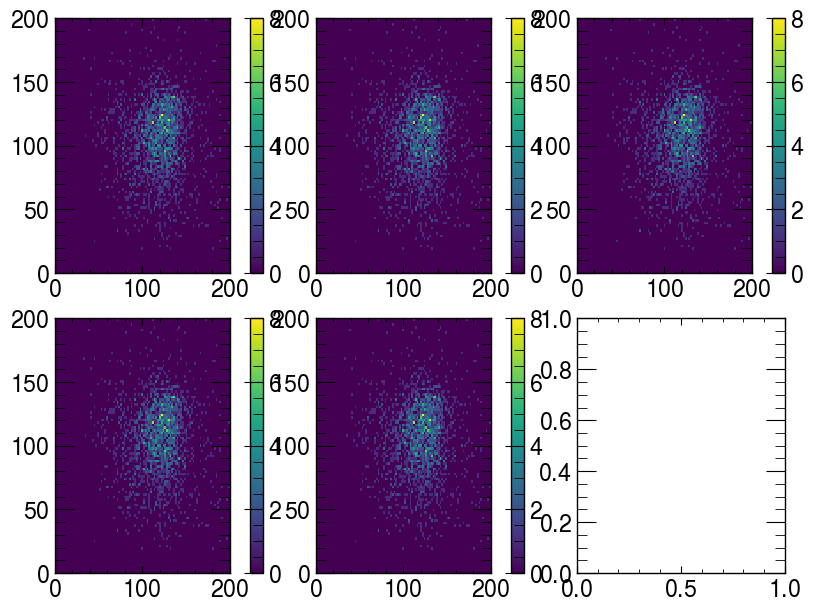
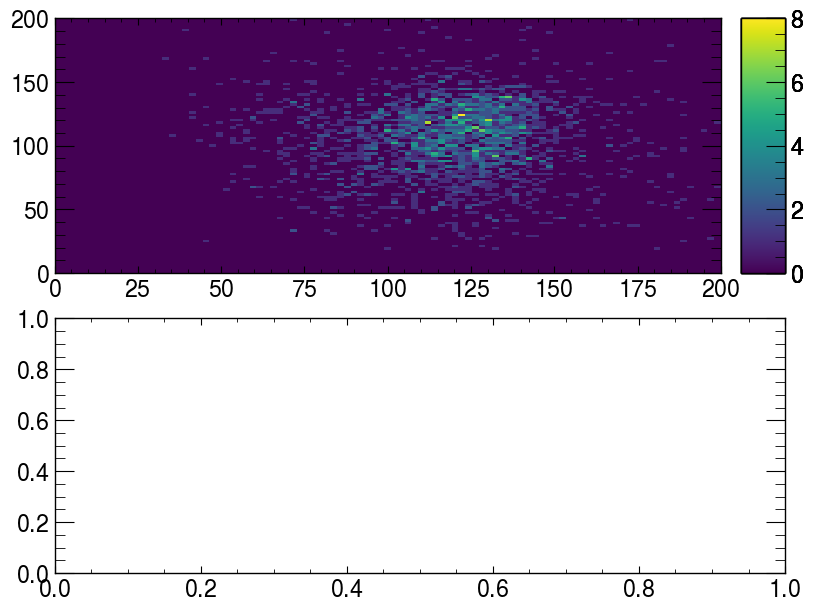
Draw vanilla mH plane

diff --git a/fill_hists.py b/fill_hists.py
@@ -1,15 +1,15 @@
 import numpy as np
 import awkward as ak
 import vector as p4
+from collections import defaultdict
 from histograms import EffHistogram, EffHistogramdd
 import triggers
 import logging
 
 
 def init_leading_jets_passed_trig_hists():
-    leading_jets_passed_trig_hists = {}
+    leading_jets_passed_trig_hists = defaultdict(lambda: defaultdict(int))
     for ith_jet in np.arange(0, 4):
-        leading_jets_passed_trig_hists[ith_jet] = {}
         # bin_range = [20_000, 1_300_000]
         bin_range = [0, 1_300_000]
         if ith_jet == 2:
@@ -38,13 +38,12 @@ def fill_leading_jet_pt_passed_trig_hists(jet_pt, trigs_decisions, output):
 
 
 def init_mH_passed_trig_hists():
-    mH_passed_trig_hists = {}
-    for ith_h in np.arange(0, 2):
-        mH_passed_trig_hists[ith_h] = {}
-        bin_range = [0, 200_000]
+    mH_passed_trig_hists = defaultdict(lambda: defaultdict(int))
+    bin_range = [0, 200_000]
+    for ith_var in np.arange(0, 2):
         for trig in triggers.run3_all:
-            mH_passed_trig_hists[ith_h][trig] = EffHistogram(
-                f"mH{ith_h}_passed_{trig}",
+            mH_passed_trig_hists[ith_var][trig] = EffHistogram(
+                f"mH{ith_var}_passed_{trig}",
                 bin_range,
                 bins=100,
             )
@@ -59,15 +58,15 @@ def fill_mH_passed_trig_hists(events, trigs_decisions, output):
         f"total number events from jets, H1 and H2 in events (all should be equal): {len(h1_m)}, {len(h2_m)}"
     )
 
-    for ith_h, passed_trig_hists in output.items():
+    for ith_var, passed_trig_hists in output.items():
         for trig, hist in passed_trig_hists.items():
             trig_decisions = trigs_decisions[f"trigPassed_{trig}"]
-            if ith_h == 0:
+            if ith_var == 0:
                 hist.fill(
                     h1_m[trig_decisions],
                     h1_m,
                 )
-            if ith_h == 1:
+            if ith_var == 1:
                 hist.fill(
                     h2_m[trig_decisions],
                     h2_m,
@@ -75,14 +74,15 @@ def fill_mH_passed_trig_hists(events, trigs_decisions, output):
 
 
 def init_mH_plane_passed_trig_hists():
-    mH_plane_passed_trig_hists = {}
+    mH_plane_passed_trig_hists = defaultdict(lambda: defaultdict(int))
     bin_range = (0, 200_000)
-    for trig in triggers.run3_all:
-        mH_plane_passed_trig_hists[trig] = EffHistogramdd(
-            f"mH_plane_passed_{trig}",
-            bin_range,
-            bins=100,
-        )
+    for ith_var in np.arange(0, 1):
+        for trig in triggers.run3_all:
+            mH_plane_passed_trig_hists[ith_var][trig] = EffHistogramdd(
+                f"mH_plane_passed_{trig}",
+                bin_range,
+                bins=100,
+            )
     return mH_plane_passed_trig_hists
 
 
@@ -91,8 +91,9 @@ def fill_mH_plane_passed_trig_hists(events, trigs_decisions, output):
     h1_m = events["resolved_DL1dv01_FixedCutBEff_70_h1_m"]
     h2_m = events["resolved_DL1dv01_FixedCutBEff_70_h2_m"]
 
-    for trig, hist in output.items():
-        trig_decisions = trigs_decisions[f"trigPassed_{trig}"]
-        passed_trig = np.column_stack((h1_m[trig_decisions], h2_m[trig_decisions]))
-        total = np.column_stack((h1_m, h2_m))
-        hist.fill(total)
+    for ith_var, passed_trig_hists in output.items():
+        for trig, hist in passed_trig_hists.items():
+            trig_decisions = trigs_decisions[f"trigPassed_{trig}"]
+            passed_trig = np.column_stack((h1_m[trig_decisions], h2_m[trig_decisions]))
+            total = np.column_stack((h1_m, h2_m))
+            hist.fill(total)

diff --git a/draw_hists.py b/draw_hists.py
@@ -9,7 +9,7 @@ invGeV = 1 / 1_000
 
 
 def draw_var_vs_trig_eff_hists(hists, sample_name, var_label, y_lims=None):
-    n_plots = len(hists.items())
+    n_plots = len(hists.keys())
     fig, axs = plt.subplots(2, n_plots // 2, constrained_layout=True)
     axs = axs.flat
     for ith_var, passed_trig_hists in hists.items():
@@ -66,21 +66,20 @@ def set_leading_jets_y_lims(ith_var, ax):
 
 
 def draw_2d_var_vs_trig_eff_hists(hists, sample_name, var_label, y_lims=None):
-    n_plots = len(hists.items())
-    fig, axs = plt.subplots(2, n_plots - 2, constrained_layout=True)
+    n_plots = 2
+    fig, axs = plt.subplots(n_plots, constrained_layout=True)
     axs = axs.flat
-    for ith_trig, trig_name, hist in zip(
-        np.arange(0, n_plots), triggers.run3_all_short, hists.values()
-    ):
-        ax = axs[ith_trig]
-        total = hist.values
-        bins = hist.edges * invGeV
-        hep.hist2dplot(
-            total,
-            bins,
-            bins,
-            ax=ax,
-        )
+    for ith_var, passed_trig_hists in hists.items():
+        ax = axs[ith_var]
+        for trig, hist in zip(triggers.run3_all_short, passed_trig_hists.values()):
+            total = hist.values
+            bins = hist.edges * invGeV
+            hep.hist2dplot(
+                total,
+                bins,
+                bins,
+                ax=ax,
+            )
     fig.savefig(f"{var_label}_plane_vs_trig_eff_{sample_name}.png", bbox_inches="tight")
     plt.close()
 

diff --git a/main.py b/main.py
@@ -1,3 +1,4 @@
+from collections import defaultdict
 import uproot
 import numpy as np
 import triggers
@@ -34,10 +35,9 @@ def main():
         # "k01": mc21_ggF_k01,
         # "k10": mc21_ggF_k10,
     }
-    outputs = {}
+    outputs = defaultdict(lambda: defaultdict(int))
     st = time.time()
     for sample_name, sample_path in inputs.items():
-        outputs[sample_name] = {}
         outputs[sample_name][
             "leading_jets_passed_trig_hists"
         ] = init_leading_jets_passed_trig_hists()
